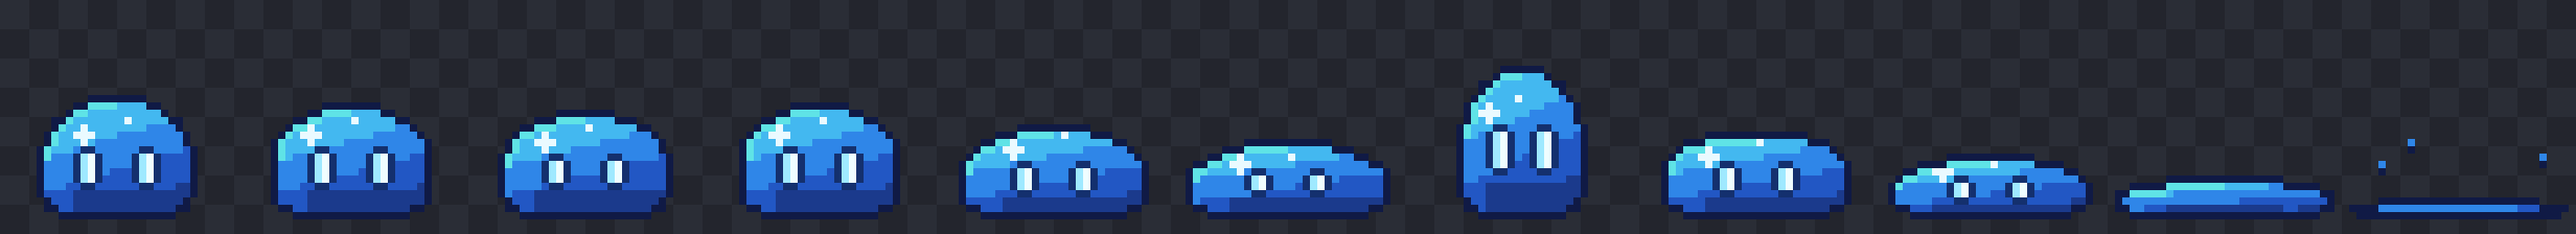
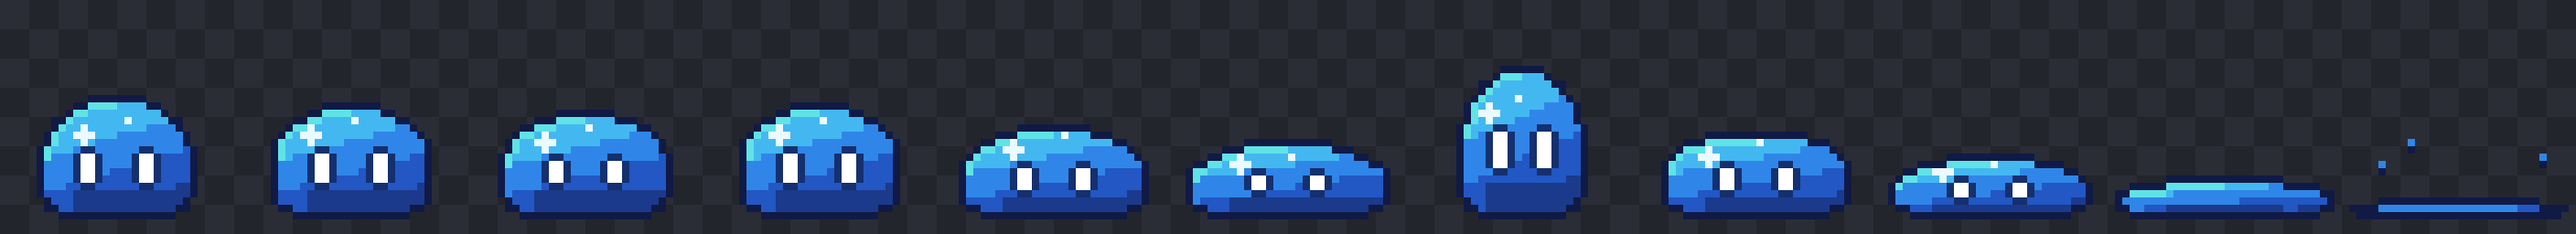
[enemy] Slime: white eyes, drop ground telegraph ring (#25)
Telegraph is now the windup squash + red flash only.

Changed region(s): [[0.0312, 0.6562, 0.0625, 0.7812]]

diff --git a/game/systems/enemy/CLAUDE.md b/game/systems/enemy/CLAUDE.md
@@ -9,9 +9,9 @@
 ## ไฟล์สำคัญ
 | ไฟล์ | หน้าที่ |
 |---|---|
-| `slime/slime.tscn` + `slime.gd` | สไลม์: IDLE → CHASE (เด้ง) → WINDUP (วงเตือน) → LEAP (Hitbox เปิด) → RECOVER · HURT · DEAD |
+| `slime/slime.tscn` + `slime.gd` | สไลม์: IDLE → CHASE (เด้ง) → WINDUP (ย่อตัว + กระพริบแดง) → LEAP (Hitbox เปิด) → RECOVER · HURT · DEAD |
 | `slime/slime_sheet.png` | sprite 11 เฟรม 32×32 — สร้างจาก `slime/tools/gen_slime_sheet.gd` (placeholder art, แก้สีแล้วรันใหม่) |
-| `common/telegraph_marker.gd` | `TelegraphMarker` วงเตือนบนพื้น ใช้ซ้ำกับศัตรูตัวอื่นได้ |
+| `common/telegraph_marker.gd` | `TelegraphMarker` วงเตือนบนพื้น — ยังไม่มีศัตรูตัวไหนใช้ (สไลม์เลิกใช้แล้ว) |
 | `debug/enemy_sandbox.tscn` | scene ลองศัตรู (F6) มีหุ่นแทนผู้เล่น: ลูกศรเดิน, Space ฟัน |
 
 ## ส่ง / รับ ข้ามระบบ
@@ -22,7 +22,7 @@
 ## กติกาเฉพาะระบบ / กับดักที่เคยเจอ
 - art ตามสเปกใน `docs/DESIGN.md` (pixel 32 px, top-down 3/4) · sprite `offset.y = -14` ให้เท้าอยู่ที่ origin (y-sort ถูก)
 - ห้ามโจมตีโดยไม่มี telegraph — `Hitbox.activate()` หลัง windup เท่านั้น
-- `TelegraphMarker` ต้อง `top_level = true` + `z_index = -1` → พื้น/TileMap ต้อง z ต่ำกว่า -1 ไม่งั้นบังวง
+- ถ้าใช้ `TelegraphMarker`: ต้อง `top_level = true` + `z_index = -1` → พื้น/TileMap ต้อง z ต่ำกว่า -1 ไม่งั้นบังวง
 - เทสต์รันตอน root ยังไม่อยู่ใน tree → อย่าใช้ `@onready` กับ node ที่เทสต์ต้องใช้ · ผูก node ใน `setup()` และแยก AI ไว้ใน `tick()` (ไม่มี physics)
 
 ## เทสต์

diff --git a/docs/GLOSSARY.md b/docs/GLOSSARY.md
@@ -14,7 +14,7 @@
 | ตัวทำดาเมจ | `Hitbox` | พื้นที่ของท่าโจมตีที่ทำดาเมจ | core/combat |
 | เซ / poise | `DamageInfo.stagger` | แรงขัดท่า — ผู้รับตัดสินเองว่าเซไหม | core/combat |
 | ท่าเตรียม | telegraph · `TelegraphMarker` (วงเตือนบนพื้น) | ท่า/VFX บอกล่วงหน้าก่อนศัตรูโจมตี (บังคับทุกท่า) | enemy |
-| สไลม์ | `Slime` · `enemy_id = &"slime"` | ศัตรูตัวแรก: เด้งเข้าหา → ย่อตัว (telegraph) → พุ่งทับ | enemy |
+| สไลม์ | `Slime` · `enemy_id = &"slime"` | ศัตรูตัวแรก: เด้งเข้าหา → ย่อตัว + กระพริบแดง (telegraph) → พุ่งทับ | enemy |
 
 ## คำที่ห้ามใช้ปนกัน
 <!-- เช่น "ด่าน" vs "ห้อง" — ตกลงว่าใช้คำไหน -->
